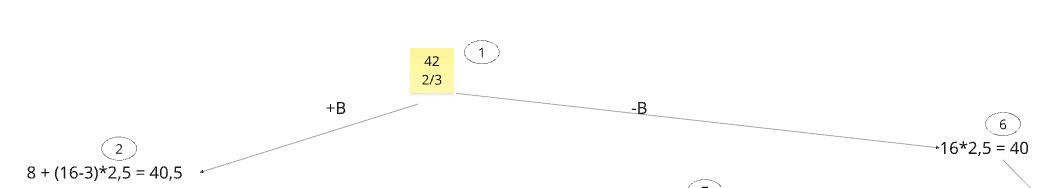
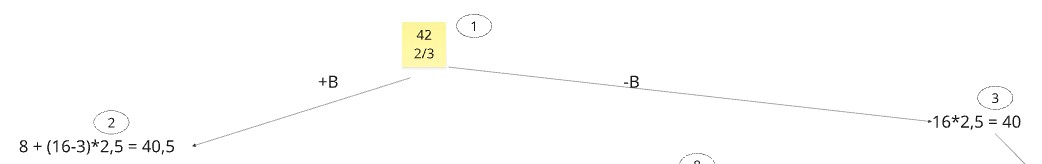
done 12 task

diff --git a/Задание 12/travis.md b/Задание 12/travis.md
@@ -1,208 +1,269 @@
-Постановка задачи
+# Задача о рюкзаке. Метод ветвей и границ. Вариант 6
+
+## Постановка задачи
 
 Задача о рюкзаке (англ. Knapsack problem) — дано N предметов, ni предмет имеет массу wi > 0 и стоимость pi > 0. Необходимо выбрать из этих предметов такой набор, чтобы суммарная масса не превосходила заданной величины W (вместимость рюкзака), а суммарная стоимость была максимальна.
 
-Условия задачи
+## Условия задачи
 
 Предметы: A, B, C, D, E
 
-| Предмет | A | B | C | D | E |
-|----------|---|---|---|---|---|
+| Предмет   | A  | B | C | D  | E  |
+|-----------|----|---|---|----|----|
 | Стоимость | 12 | 8 | 9 | 11 | 10 |
-| Вес | 6 | 3 | 5 | 7 | 4 |
+| Вес       | 6  | 3 | 5 | 7  | 4  |
 
-Ограничение вместимости: 16
+Ограничение вместимости: **16**
 
-**Шаг 1**  
-Сортируем предметы по их ценности (стоимость / вес)
-| Предмет | B | E | A | C | D |
-|----------|---|---|---|---|---|
-| Стоимость | 8 | 10 | 12 | 9 | 11 |
-| Вес | 3 | 4 | 6 | 5 | 7 |
-| Ценность | 2 2/3 | 2,5 | 2 | 1 4/5 | 1 4/7 |
+## Шаг 1. Сортировка предметов по ценности (стоимость / вес)
 
-**Шаг 2**  
-Предположим, что самого ценного предмета можно взять дробное количество (верхняя оценка).
+| Предмет   | B      | E   | A  | C      | D      |
+|-----------|--------|-----|----|--------|--------|
+| Стоимость | 8      | 10  | 12 | 9      | 11     |
+| Вес       | 3      | 4   | 6  | 5      | 7      |
+| Ценность  | 2 2/3  | 2,5 | 2  | 1 4/5  | 1 4/7  |
 
-Самая высокая ценность:
+## Шаг 2. Верхняя оценка — узел 1 (корень дерева)
 
-2+2/3 = 8/3
+Предположим, что самого ценного предмета можно взять дробное количество.
 
-Максимальная оценка:
+Самая высокая ценность: 2 + 2/3 = **8/3**
 
-16*8/3 = 42,7
+Максимальная оценка: 16 * 8/3 = **42 2/3 ≈ 42,7**
 
-Это значение является корнем дерева.
+Это значение является корнем дерева — **узел 1**.
 
-**Шаг 3**
+## Шаг 3. Ветвление из узла 1 по предмету B — узлы 2 и 3
 
 Разбиваем решения на два подмножества:
 
-Левый потомок — берем предмет B  
-Правый — не берем B
+Левый потомок — берём предмет B  
+Правый — не берём B
 
-**Левая ветка (+B)**
+**Левая ветка +B  узел 2**
 
-Берем B:
+8 + (16 − 3) * 2,5 = 8 + 13 * 2,5 = **40,5**
 
-Стоимость: 8
-Оставшийся вес: 13
+**Правая ветка −B  узел 3**
 
-Оценка:
+16 * 2,5 = **40**
 
-8+(16−3)*2,5=8+13*2,5=8+32,5=40,5
+![дерево шаг 1](assets/travis/1.jpg)
 
-**Правая ветка (-B)**
+## Шаг 4. Раскрываем узел 2 (+B, оценка 40,5). Ветвление по предмету E — узлы 4 и 8
 
-16*2,5=40
+Среди открытых вершин максимальная оценка — 40,5 (узел 2).
 
-![image](../assets/travis/1.jpg)
+**Левая ветка +B +E  узел 4**
 
-**Далее продолжаем строить дерево из самой перспективной вершины (40,5).**
+8 + 10 + (16 − 3 − 4) * 2 = 18 + 9 * 2 = **36**
 
-Следующий уровень
+**Правая ветка +B −E  узел 8**
 
-Добавляем предмет E.
+8 + (16 − 3) * 2 = 8 + 13 * 2 = **34**
 
-+E
+![дерево шаг 2](assets/travis/2.jpg)
 
-8+10+(16−3−4)*2=18+9*2=36
+## Шаг 5. Раскрываем узел 3 (−B, оценка 40). Ветвление по предмету E — узлы 9 и 16
 
--E
+Среди открытых вершин максимальная оценка — 40 (узел 3).
 
-8+(16−3)*2=8+13*2=34
+**Левая ветка −B +E  узел 9**
 
-![image](../assets/travis/2.jpg)
+10 + (16 − 4) * 2 = 10 + 12 * 2 = **34**
 
-Среди открытых вершин максимальная оценка равна 40 (ветка -B).
+**Правая ветка −B −E  узел 16**
 
-**Продолжаем построение из этой вершины.**
+16 * 2 = **32**
 
-+E
+![дерево шаг 3](assets/travis/3.jpg)
 
-10+(16−4)*2=10+12*2=34
+## Шаг 6. Раскрываем узел 4 (+B +E, оценка 36). Ветвление по предмету A — узлы 5 и 7
 
--E
+Среди открытых вершин максимальная оценка — 36 (узел 4). Следующий предмет — A.
 
-16*2=32
+**Левая ветка +B +E +A  узел 5**
 
-![image](../assets/travis/3.jpg)
+8 + 10 + 12 + (16 − 3 − 4 − 6) * 9/5 = 30 + 3 * 9/5 = **35,4**
 
-Теперь среди открытых вершин максимальная оценка равна 36.
+**Правая ветка +B +E −A  узел 7**
 
-**Продолжаем построение из вершины 36 (ветка +B +E).**
+8 + 10 + (16 − 3 − 4) * 9/5 = 18 + 9 * 9/5 = **34,2**
 
-Следующий предмет — A (ценность 2)
+![дерево шаг 4](assets/travis/4.jpg)
 
-+A
-8+10+12+(16−3−4−6)*9/5=35,4
+## Шаг 7. Раскрываем узел 5 (+B +E +A, оценка 35,4). Ветвление по предмету C — узел 6
 
--A
-8+10+(16−3−4)*9/5=34,2
+Следующий предмет — C.
 
-![image](../assets/travis/4.jpg)
+**Левая ветка +B +E +A +C**
 
-**Из вершины 35,4 (ветка +B +E +A) пробуем добавить C**
+Проверяем вес: 3 + 4 + 6 + 5 = 18 > 16  **ветка невозможна**
 
-Следующий предмет — C (ценность 9/5)
+**Правая ветка +B +E +A −C  узел 6**
 
-+C
-Проверяем вес:
+8 + 10 + 12 + (16 − 3 − 4 − 6) * 11/7 = 30 + 3 * 11/7 = **34,7**
 
-3+4+6+5=18>16
+Раскрываем узел 6 по предмету D:
 
-Вес превышен → ветка невозможна (в твоём дереве это как раз помечено как «выходит отрицательное/нельзя»).
+**+D:** вес 3 + 4 + 6 + 7 = 20 > 16  **нельзя**
 
--C +D будет отрицательное значение
+**−D:** стоимость = 8 + 10 + 12 = **30** — первое целочисленное решение (предметы B, E, A)
 
--C -D тогда остаётся целочисленное решение:
+![дерево шаг 5](assets/travis/6.jpg)
 
-**8+10+12=30**
-**(предметы B, E, A)**
+## Шаг 8. Раскрываем узел 8 (+B −E, оценка 34). Ветвление по предмету A — узлы 12 и 19
 
-![image](../assets/travis/5.jpg)
+Среди открытых вершин максимальные оценки — 34,2 (узел 7), 34 (узлы 8 и 9). Раскрываем узел 8.
 
-**Вершина 34 (ветка +B -E)**
+**Левая ветка +B −E +A  узел 12**
 
-Дальше по A:
+8 + 12 + (16 − 3 − 6) * 9/5 = 20 + 7 * 9/5 = **32,6**
 
-+A
+**Правая ветка +B −E −A  узел 19**
 
-8+12+(16−3−6)*9/5=32,6
+8 + (16 − 3) * 9/5 = 8 + 13 * 9/5 = **31,4**
 
--A
+![дерево шаг 6](assets/travis/7.jpg)
 
-8+(16−3)*9/5=31,4
+## Шаг 9. Раскрываем узел 9 (−B +E, оценка 34). Ветвление по предмету A — узлы 11 и 17
 
-![image](../assets/travis/6.jpg)
+**Левая ветка −B +E +A  узел 11**
 
-**Из вершины 32,6 (ветка +B -E +A) рассматриваем C**
+10 + 12 + (16 − 4 − 6) * 9/5 = 22 + 6 * 9/5 = **32,8**
 
-+C
+**Правая ветка −B +E −A  узел 17**
 
-Берём C:
+10 + (16 − 4) * 9/5 = 10 + 12 * 9/5 = **31,6**
 
-вес 3+6+5=14, стоимость 8+12+9=29
+## Шаг 10. Раскрываем узел 7 (+B +E −A, оценка 34,2). Ветвление по предмету C — узлы 10 и 15
 
-Верхняя оценка с D (дробно):
-остаток веса 16−14=2
+**Левая ветка +B +E −A +C  узел 10**
 
-29+2*11/7=29+22/7=32 1/7
+8 + 10 + 9 + (16 − 3 − 4 − 5) * 11/7 = 27 + 4 * 11/7 = **33,3**
 
--C
+**Правая ветка +B +E −A −C  узел 15**
 
-Не берём C:
-вес 3+6=9, стоимость 20
+8 + 10 + (16 − 3 − 4) * 11/7 = 18 + 9 * 11/7 = **32,1**
 
-Остаток веса 7, следующий D:
+## Шаг 11. Раскрываем узел 11 (−B +E +A, оценка 32,8). Ветвление по предмету C — узлы 13 и 18
 
-20+7*11/7=31
+**Левая ветка −B +E +A +C  узел 13**
 
-![image](../assets/travis/7.jpg)
+Вес: 4 + 6 + 5 = 15, стоимость: 10 + 12 + 9 = 31
 
-**Из вершины 31 (ветка +B -E +A -C) рассматриваем D**
+Остаток веса: 16 − 15 = 1
 
-+D
+31 + 1 * 11/7 = **32 4/7**
 
-Проверяем вес:
+Раскрываем узел 13:
 
-3+6+7=16≤16
+**+D:** вес 4 + 6 + 5 + 7 = 22 > 16  **нельзя**
 
-Стоимость:
+**−D:** стоимость = 10 + 12 + 9 = **31** — конечный ответ
 
-8+12+11=31
+**Правая ветка −B +E +A −C  узел 18**
 
-**Это допустимое решение и оно лучше, чем 30.**
+10 + 12 + (16 − 4 − 6) * 11/7 = 22 + 6 * 11/7 = 22 + 66/7 = **31 3/7 ≈ 31,4**
 
--D
+## Шаг 12. Раскрываем узел 12 (+B −E +A, оценка 32,6). Ветвление по предмету C — узлы 14 и 20
 
-Стоимость остаётся 20 — хуже.
+**Левая ветка +B −E +A +C  узел 14**
 
-![image](../assets/travis/8.jpg)
+Вес: 3 + 6 + 5 = 14, стоимость: 8 + 12 + 9 = 29
 
-**Итог**
+Остаток веса: 16 − 14 = 2
 
-**Максимальное допустимое решение:**
+29 + 2 * 11/7 = 29 + 22/7 = **32 1/7**
 
-Предметы:
-A, B, D
+32 1/7 > 31,6
+
+**Правая ветка +B −E +A −C  узел 20**
+
+Вес: 3 + 6 = 9, стоимость: 8 + 12 = 20
+
+Остаток веса: 7
+
+20 + 7 * 11/7 = 20 + 11 = **31**
+
+![дерево шаг 7](assets/travis/8.jpg)
+
+## Шаг 13. Раскрываем узел 20 (+B −E +A −C, оценка 31). Ветвление по предмету D
+
+**+D:** вес 3 + 6 + 7 = **16 ≤ 16**
+
+Стоимость: 8 + 12 + 11 = **31**
+
+Это допустимое решение, лучше предыдущего (30) **рекорд = 31, предметы A, B, D**
+
+**−D:** стоимость = 20 < 31  хуже рекорда
+
+![дерево шаг 8](assets/travis/9.jpg)
+
+## Шаг 14. Раскрываем узел 14 (+B −E +A +C, оценка 32 1/7)
+
+**+D:** вес 3 + 6 + 5 + 7 = 21 > 16  **нельзя**
+
+**−D:** стоимость = 8 + 12 + 9 = 29 < 31  **хуже рекорда**
+
+## Шаг 15. Раскрываем узел 10 (+B +E −A +C, оценка 33,3)
+
+**+D:** вес 3 + 4 + 5 + 7 = 19 > 16  **нельзя**
+
+**−D:** стоимость = 8 + 10 + 9 = 27 < 31  **хуже рекорда**
+
+## Шаг 16. Раскрываем узел 15 (+B +E −A −C, оценка 32,1)
+
+**+D:** вес 3 + 4 + 7 = 14, стоимость 8 + 10 + 11 = 29 < 31  **хуже рекорда**
+
+**−D:** стоимость = 8 + 10 = 18 < 31  **хуже рекорда**
+
+## Шаг 17. Раскрываем узел 16 (−B −E, оценка 32)
+
+**+A:** 12 + (16 − 6) * 9/5 = 12 + 18 = 30 < 31  **отсечение**
+
+**−A:** 16 * 9/5 = 28,8 < 31  **отсечение**
+
+## Шаг 18. Раскрываем узел 17 (−B +E −A, оценка 31,6)
+
+**+C:** вес 4 + 5 = 9, стоимость 10 + 9 = 19
+
+19 + 7 * 11/7 = 19 + 11 = 30 < 31  **отсечение**
+
+**−C:** 10 + (16 − 4) * 11/7 = 10 + 132/7 = 28 6/7 < 31  **прекращаем цепочку**
+
+## Шаг 19. Раскрываем узел 18 (−B +E +A −C, оценка 31,4)
+
+**+D:** вес 4 + 6 + 7 = 17 > 16  **нельзя**
+
+**−D:** стоимость = 10 + 12 = 22 < 31  **хуже рекорда**
+
+## Шаг 20. Раскрываем узел 19 (+B −E −A, оценка 31,4)
+
+**+C:** вес 3 + 5 = 8, стоимость 8 + 9 = 17
+
+17 + 8 * 11/7 = 17 + 88/7 = 29 4/7 < 31  **отсечение**
+
+**−C:** 8 + 13 * 11/7 = 8 + 143/7 = 28 3/7 < 31  **прекращаем ветку**
+
+![финальное дерево](assets/travis/10.jpg)
+
+## Итог
 
 Проверка:
 
-Вес:
-3+6+7=16≤16
+ПредметыL: **A, B, D**
 
-Стоимость:
-12+8+11=31
+Вес: 3 + 6 + 7 = **16 ≤ 16**
+
+Стоимость: 12 + 8 + 11 = **31**
 
 Добавить остальные предметы невозможно без превышения веса.
 
-Ответ
+## Ответ
 
-В рюкзак пойдут предметы:
+В рюкзак пойдут предметы: **A, B, D**
 
-A, B, D
+Максимальная стоимость: **31**
 
-Максимальная стоимость: 31
-
-![image](../assets/travis/9.jpg)
+Общий вес предметов: **16**
